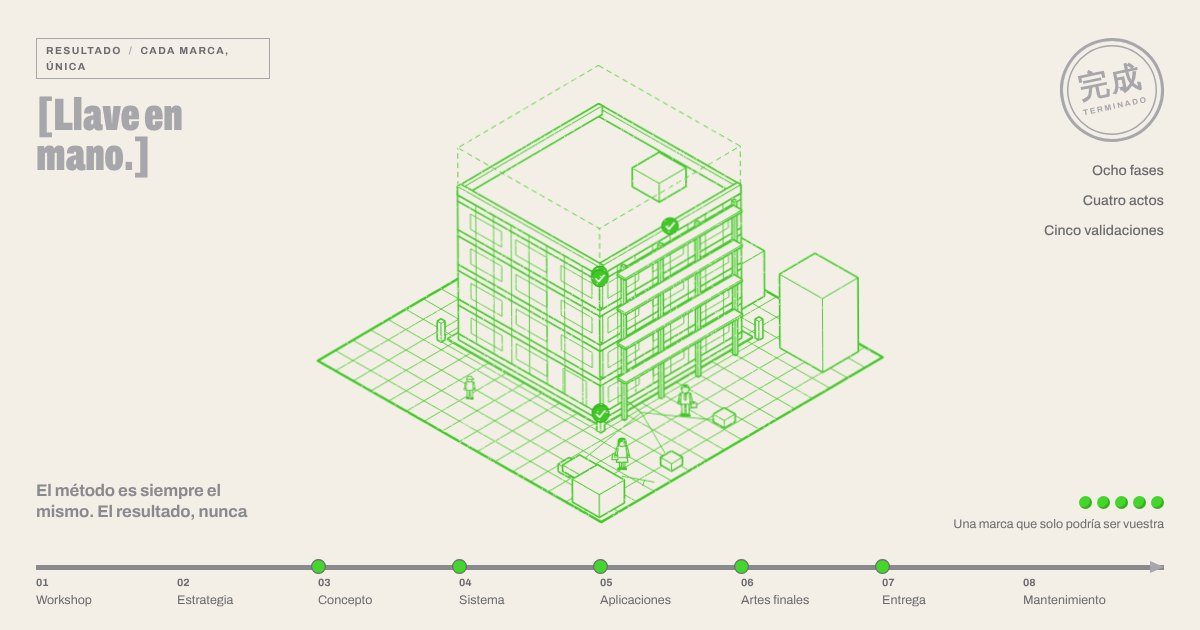
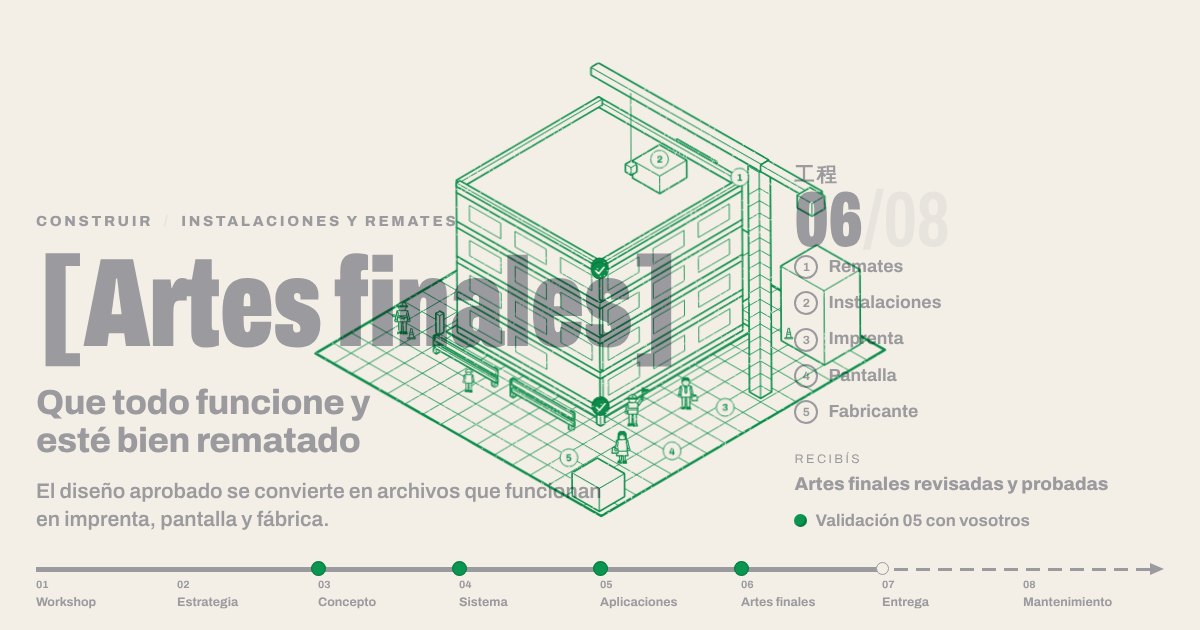
Dos tintas: el texto gris corre bajo la plancha verde y se funden al cruzarse
- La ilustración es una plancha fija encima de la página; los textos de cada
  fase corren por debajo al hacer scroll. Donde se cruzan, las tintas se
  suman (multiplicar), como en una risografía a dos tintas.
- La fase que se construye sale del texto que cruza el centro de la
  pantalla; la línea de fases queda fija abajo sobre papel.
- Verde de la referencia (#0A9651) para ilustración y gomets.
- Todos los textos en un mismo gris claro (#9A9A9F), más grandes y gruesos:
  títulos de fase a 10 vw, titulares y textos de la obra en negrita.
- Sin desbordamiento lateral (overflow-x: clip, que no rompe el sticky).

Claude-Session: https://claude.ai/code/session_01AgaA6ceLrqybE1WbhhE7Jz

diff --git a/assets/css/gve.css b/assets/css/gve.css
@@ -923,6 +923,81 @@ svg [fill="#1B1B1B"] { fill: var(--midori); }
   .cat-fig path, .pl-fig path, .pil-fig path, #fig-fases path, .timeline path, .fachada path { stroke-width: .8px; }
 }
 
+/* ==========================================================================
+   CAPAS — dos tintas, como en risografía. El texto, en un solo gris claro, grande y grueso,
+   corre por debajo al hacer scroll; la plancha verde del dibujo queda fija encima y, donde
+   se cruzan, las tintas se suman (multiplicar): el trazo verde se funde con el gris de la letra.
+   ========================================================================== */
+:root { --midori: #0A9651; --gomet: #0A9651; --gomet-d: #087A42; --g: #9A9A9F; --g1: var(--g); --g2: var(--g); --g3: var(--g); --g0: #E7E4DD; }
+body { font-size: 18px; font-weight: 500; }
+.h2, .pl-h, .op-h, .card-name, .cat-name, .faq summary, .statement, .jp-head, .lbl, .rail-k, .rail-n { color: var(--g); }
+.btn { background: var(--g); border-color: var(--g); color: #fff; box-shadow: none; }
+.btn:hover { background: #87878C; border-color: #87878C; }
+.btn-ghost { background: transparent; color: var(--g); border-color: var(--g); }
+.btn-ghost:hover { background: var(--g0); color: var(--g); }
+
+/* la plancha verde: fija, encima de todo lo que corre por debajo, impresa en multiplicar */
+.obra { height: auto; position: relative; border-bottom: 0; overflow-x: clip; }
+.obra .obra-svg { position: sticky; top: var(--hd); display: block; width: 100%; height: calc(100vh - var(--hd)); height: calc(100svh - var(--hd));
+  margin-bottom: calc(-100vh + var(--hd)); margin-bottom: calc(-100svh + var(--hd)); z-index: 3; overflow: hidden; pointer-events: none;
+  mix-blend-mode: multiply; transform: rotate(-.35deg); will-change: transform; contain: strict;
+  -webkit-mask: url(../img/stamp.png) 0 0 / 128px 128px repeat; mask: url(../img/stamp.png) 0 0 / 128px 128px repeat; }
+.obra .obra-svg { --blank: #FFFFFF; }
+/* los textos corren por debajo, uno por fase */
+.obra .obra-panels { position: relative; z-index: 1; inset: auto; width: auto; padding: 0 var(--gut); pointer-events: auto; }
+.obra .obra-panels::before { content: none; }
+.obra .op { position: relative; inset: auto; display: grid; grid-template-columns: minmax(0, 1.3fr) minmax(0, .7fr); gap: 4vh 6vw; align-content: center; align-items: end;
+  min-height: 92vh; min-height: 92svh; padding: 14vh 0; opacity: 1; visibility: visible; transform: none; transition: none; }
+.obra .op-l, .obra .op-r { width: auto; display: flex; flex-direction: column; justify-content: flex-start; gap: 26px; text-align: left; align-items: flex-start; }
+.obra .op-meta { padding: 0; border: 0; background: none; transform: none; color: var(--g); font-size: .92rem; font-weight: 800; letter-spacing: .18em; margin: 0 0 18px; }
+.obra .op-meta i { color: var(--g0); }
+.obra .op-title, .obra .op-display { color: var(--g); font-weight: 900; font-stretch: 62%; letter-spacing: -.012em; line-height: .86; text-shadow: none; }
+.obra .op-title { font-size: clamp(4rem, 10.5vw, 11rem); }
+.obra .op-display { font-size: clamp(3.4rem, 8.4vw, 8.6rem); max-width: 9em; }
+.obra .op-h { margin: 0 0 .5em; color: var(--g); font-weight: 800; font-size: clamp(1.6rem, 2.9vw, 2.8rem); line-height: 1.08; letter-spacing: -.015em; max-width: 17em; }
+.obra .op-short { color: var(--g); font-weight: 600; font-size: clamp(1.2rem, 1.75vw, 1.65rem); line-height: 1.35; max-width: 28em; }
+.obra .op-count { margin: 0; color: var(--g); font-weight: 900; font-stretch: 62%; font-size: clamp(3.4rem, 6.5vw, 6.6rem); line-height: .85; }
+.obra .op-count small { color: var(--g); font-size: .26em; }
+.obra .op-count span { color: var(--g0); }
+.obra .op-parts, .obra .op-list { justify-items: start; gap: 10px; }
+.obra .op-parts li, .obra .op-list li { color: var(--g); font-size: clamp(1.1rem, 1.4vw, 1.35rem); font-weight: 700; }
+.obra .mk-n { order: 0; width: 24px; height: 24px; font-size: .75rem; border: 2px solid var(--g); color: var(--g); background: transparent; }
+.obra .op-parts li.hi .mk-n { background: var(--g); color: #fff; }
+.obra .op-list span { color: var(--g); font-size: .85rem; }
+.obra .op-get { padding: 0; border: 0; background: none; color: var(--g); font-size: clamp(1.15rem, 1.5vw, 1.45rem); font-weight: 800; line-height: 1.25; }
+.obra .op-get span { display: block; margin: 0 0 6px; padding: 0; background: none; color: var(--g); font-size: .78rem; letter-spacing: .2em; }
+.obra .op-val { justify-content: flex-start; color: var(--g); font-weight: 700; font-size: 1.05rem; }
+.obra .op-vals .op-vals-t { text-align: left; color: var(--g); }
+.obra .op-note { border: 2px solid var(--g); color: var(--g); font-size: 1.05rem; font-weight: 600; }
+.obra .op-note .op-note-h { color: var(--g); border-color: var(--g); }
+.obra .stamp { margin: 0; border-color: var(--g); color: var(--g); box-shadow: inset 0 0 0 4px var(--paper), inset 0 0 0 5.5px var(--g); }
+.obra .banner { background: var(--g); color: #fff; font-size: clamp(1.1rem, 1.6vw, 1.5rem); }
+.obra .bars { background: repeating-linear-gradient(90deg, var(--g) 0 4px, transparent 4px 8px); }
+.obra .op-hint { color: var(--g); font-weight: 700; font-size: .85rem; }
+.obra .op-end .ctas { margin-top: 18px; }
+/* la línea de fases, fija abajo, sobre papel */
+.obra .obra-rail { position: sticky; bottom: 0; z-index: 4; padding: 12px var(--gut) 16px; background: var(--paper); }
+.obra .rail { border-top: 0; background: repeating-linear-gradient(90deg, var(--g) 0 14px, transparent 14px 22px) 0 1px / calc(100% - 14px) 3px no-repeat; position: relative; }
+.obra .rail::after { content: ''; position: absolute; right: 0; top: -4.5px; border-left: 14px solid var(--g); border-top: 6.5px solid transparent; border-bottom: 6.5px solid transparent; }
+.obra .rail-i::before { background: var(--g); height: 5px; top: 0; }
+.obra .rail-v { border-color: var(--g); background: var(--paper); top: -5px; }
+.obra .rail-v.on { background: var(--gomet); border-color: var(--gomet-d); }
+.obra .rail-n, .obra .rail-k { color: var(--g); font-weight: 700; }
+@media (max-width: 900px) {
+  .obra .obra-svg { height: 50vh; height: 50svh; margin-bottom: -50vh; margin-bottom: -50svh; }
+  .obra .op { grid-template-columns: minmax(0, 1fr); gap: 22px; min-height: 86vh; min-height: 86svh; padding: 10vh 0; }
+  .obra .op-r { gap: 14px; }
+  .obra .op-title { font-size: clamp(2.8rem, 13vw, 4.4rem); }
+  .obra .op-display { font-size: clamp(2.8rem, 13vw, 4rem); }
+  .obra .op-h { font-size: 1.45rem; }
+  .obra .op-short { font-size: 1.1rem; }
+  .obra .op-count, .obra .stamp, .obra .op-val, .obra .op-hint { display: none; }
+  .obra .op-parts, .obra .op-list { display: flex; flex-wrap: wrap; gap: 8px 16px; }
+  .obra .op-parts li, .obra .op-list li { font-size: 1rem; }
+  .obra .op-note { display: block; font-size: .95rem; }
+  .obra .obra-rail { padding: 8px var(--gut) 10px; }
+}
+
 @media (prefers-reduced-motion: reduce) {
   html { scroll-behavior: auto; }
   *, *::before, *::after { animation: none !important; transition: none !important; }

diff --git a/index.html b/index.html
@@ -22,7 +22,7 @@
 <link rel="preconnect" href="https://fonts.googleapis.com">
 <link rel="preconnect" href="https://fonts.gstatic.com" crossorigin>
 <link rel="stylesheet" href="https://fonts.googleapis.com/css2?family=Archivo:wdth,wght@62..125,300..900&display=swap">
-<link rel="stylesheet" href="assets/css/gve.css?v=mw7houd9">
+<link rel="stylesheet" href="assets/css/gve.css?v=mw7i3cah">
 <script type="application/ld+json">{"@context":"https://schema.org","@type":"ProfessionalService","@id":"https://gometverdestudi.com/#studio","name":"Gomet Verd Estudi","url":"https://gometverdestudi.com/","email":"gometverdestudi@gmail.com","telephone":"+34 684 450 515","description":"Gomet Verd Estudi es un estudio independiente de branding y dirección de arte en Valencia y Barcelona. Construimos marcas como edificios: de abajo arriba, en ocho fases y con una validación en cada capa.","sameAs":["https://www.instagram.com/gometverdestudi/"],"slogan":"ALWAYS WIPing (Working In Play)","areaServed":[{"@type":"City","name":"Valencia"},{"@type":"City","name":"Barcelona"}],"knowsAbout":["Branding","Identidad corporativa","Dirección de arte","Packaging","Diseño editorial","Lettering","Cartelería"],"member":{"@type":"Person","name":"Manel Vila","url":"https://manelvila.com/"}}</script>
 </head>
 <body class="is-home">
@@ -95,7 +95,6 @@
 <main id="main">
 
 <section class="obra" id="obra" aria-label="Cómo se construye una marca" style="--n:10">
-  <div class="obra-stage">
     <svg class="obra-svg" viewBox="-360 -260 720 580" preserveAspectRatio="xMidYMid meet" role="img" aria-labelledby="obra-t"><title id="obra-t">Un edificio se construye de abajo arriba mientras se recorren las ocho fases del método: terreno, solar, cimientos, pilares, plantas, fachada e instalaciones, entrega de llaves y mantenimiento. Cada validación se marca con un gomet verde.</title><g class="scene"></g><g class="labels"></g></svg>
     <div class="obra-panels">
       <article class="op op-intro on" data-p="0">
@@ -202,7 +201,6 @@
     <div class="obra-rail">
       <ol class="rail"><li class="rail-i" data-k="1"><button type="button" data-go="1" aria-label="Ir a la fase 01: Workshop"><span class="rail-n">01</span><span class="rail-k">Workshop</span></button></li><li class="rail-i" data-k="2"><button type="button" data-go="2" aria-label="Ir a la fase 02: Estrategia"><span class="rail-n">02</span><span class="rail-k">Estrategia</span></button><span class="rail-v" data-v="1" aria-hidden="true"></span></li><li class="rail-i" data-k="3"><button type="button" data-go="3" aria-label="Ir a la fase 03: Concepto"><span class="rail-n">03</span><span class="rail-k">Concepto</span></button><span class="rail-v" data-v="2" aria-hidden="true"></span></li><li class="rail-i" data-k="4"><button type="button" data-go="4" aria-label="Ir a la fase 04: Sistema"><span class="rail-n">04</span><span class="rail-k">Sistema</span></button><span class="rail-v" data-v="3" aria-hidden="true"></span></li><li class="rail-i" data-k="5"><button type="button" data-go="5" aria-label="Ir a la fase 05: Aplicaciones"><span class="rail-n">05</span><span class="rail-k">Aplicaciones</span></button><span class="rail-v" data-v="4" aria-hidden="true"></span></li><li class="rail-i" data-k="6"><button type="button" data-go="6" aria-label="Ir a la fase 06: Artes finales"><span class="rail-n">06</span><span class="rail-k">Artes finales</span></button><span class="rail-v" data-v="5" aria-hidden="true"></span></li><li class="rail-i" data-k="7"><button type="button" data-go="7" aria-label="Ir a la fase 07: Entrega"><span class="rail-n">07</span><span class="rail-k">Entrega</span></button></li><li class="rail-i" data-k="8"><button type="button" data-go="8" aria-label="Ir a la fase 08: Mantenimiento"><span class="rail-n">08</span><span class="rail-k">Mantenimiento</span></button></li></ol>
     </div>
-  </div>
 </section>
 
 
@@ -376,7 +374,7 @@
   <button class="lb-p" type="button" aria-label="Anterior"><svg class="ico" viewBox="0 0 24 24" aria-hidden="true"><path d="M21,12 H4 M10,6 L4,12 L10,18" fill="none" stroke="currentColor" stroke-width="2" stroke-linecap="round" stroke-linejoin="round"/></svg></button>
   <button class="lb-n" type="button" aria-label="Siguiente"><svg class="ico" viewBox="0 0 24 24" aria-hidden="true"><path d="M3,12 H20 M14,6 L20,12 L14,18" fill="none" stroke="currentColor" stroke-width="2" stroke-linecap="round" stroke-linejoin="round"/></svg></button>
 </dialog>
-<script src="assets/js/obra.js?v=mw7houd9" defer></script>
-<script src="assets/js/gve.js?v=mw7houd9" defer></script>
+<script src="assets/js/obra.js?v=mw7i3cah" defer></script>
+<script src="assets/js/gve.js?v=mw7i3cah" defer></script>
 </body>
 </html>

diff --git a/contacto/index.html b/contacto/index.html
@@ -22,7 +22,7 @@
 <link rel="preconnect" href="https://fonts.googleapis.com">
 <link rel="preconnect" href="https://fonts.gstatic.com" crossorigin>
 <link rel="stylesheet" href="https://fonts.googleapis.com/css2?family=Archivo:wdth,wght@62..125,300..900&display=swap">
-<link rel="stylesheet" href="../assets/css/gve.css?v=mw7houd9">
+<link rel="stylesheet" href="../assets/css/gve.css?v=mw7i3cah">
 <script type="application/ld+json">{"@context":"https://schema.org","@type":"ProfessionalService","@id":"https://gometverdestudi.com/#studio","name":"Gomet Verd Estudi","url":"https://gometverdestudi.com/","email":"gometverdestudi@gmail.com","telephone":"+34 684 450 515","description":"Gomet Verd Estudi es un estudio independiente de branding y dirección de arte en Valencia y Barcelona. Construimos marcas como edificios: de abajo arriba, en ocho fases y con una validación en cada capa.","sameAs":["https://www.instagram.com/gometverdestudi/"],"slogan":"ALWAYS WIPing (Working In Play)","areaServed":[{"@type":"City","name":"Valencia"},{"@type":"City","name":"Barcelona"}],"knowsAbout":["Branding","Identidad corporativa","Dirección de arte","Packaging","Diseño editorial","Lettering","Cartelería"],"member":{"@type":"Person","name":"Manel Vila","url":"https://manelvila.com/"}}</script>
 </head>
 <body class="is-contacto">
@@ -216,6 +216,6 @@
   <button class="lb-p" type="button" aria-label="Anterior"><svg class="ico" viewBox="0 0 24 24" aria-hidden="true"><path d="M21,12 H4 M10,6 L4,12 L10,18" fill="none" stroke="currentColor" stroke-width="2" stroke-linecap="round" stroke-linejoin="round"/></svg></button>
   <button class="lb-n" type="button" aria-label="Siguiente"><svg class="ico" viewBox="0 0 24 24" aria-hidden="true"><path d="M3,12 H20 M14,6 L20,12 L14,18" fill="none" stroke="currentColor" stroke-width="2" stroke-linecap="round" stroke-linejoin="round"/></svg></button>
 </dialog>
-<script src="../assets/js/gve.js?v=mw7houd9" defer></script>
+<script src="../assets/js/gve.js?v=mw7i3cah" defer></script>
 </body>
 </html>

diff --git a/estudio/index.html b/estudio/index.html
@@ -22,7 +22,7 @@
 <link rel="preconnect" href="https://fonts.googleapis.com">
 <link rel="preconnect" href="https://fonts.gstatic.com" crossorigin>
 <link rel="stylesheet" href="https://fonts.googleapis.com/css2?family=Archivo:wdth,wght@62..125,300..900&display=swap">
-<link rel="stylesheet" href="../assets/css/gve.css?v=mw7houd9">
+<link rel="stylesheet" href="../assets/css/gve.css?v=mw7i3cah">
 <script type="application/ld+json">{"@context":"https://schema.org","@type":"ProfessionalService","@id":"https://gometverdestudi.com/#studio","name":"Gomet Verd Estudi","url":"https://gometverdestudi.com/","email":"gometverdestudi@gmail.com","telephone":"+34 684 450 515","description":"Gomet Verd Estudi es un estudio independiente de branding y dirección de arte en Valencia y Barcelona. Construimos marcas como edificios: de abajo arriba, en ocho fases y con una validación en cada capa.","sameAs":["https://www.instagram.com/gometverdestudi/"],"slogan":"ALWAYS WIPing (Working In Play)","areaServed":[{"@type":"City","name":"Valencia"},{"@type":"City","name":"Barcelona"}],"knowsAbout":["Branding","Identidad corporativa","Dirección de arte","Packaging","Diseño editorial","Lettering","Cartelería"],"member":{"@type":"Person","name":"Manel Vila","url":"https://manelvila.com/"}}</script>
 </head>
 <body class="is-estudio">
@@ -278,6 +278,6 @@
   <button class="lb-p" type="button" aria-label="Anterior"><svg class="ico" viewBox="0 0 24 24" aria-hidden="true"><path d="M21,12 H4 M10,6 L4,12 L10,18" fill="none" stroke="currentColor" stroke-width="2" stroke-linecap="round" stroke-linejoin="round"/></svg></button>
   <button class="lb-n" type="button" aria-label="Siguiente"><svg class="ico" viewBox="0 0 24 24" aria-hidden="true"><path d="M3,12 H20 M14,6 L20,12 L14,18" fill="none" stroke="currentColor" stroke-width="2" stroke-linecap="round" stroke-linejoin="round"/></svg></button>
 </dialog>
-<script src="../assets/js/gve.js?v=mw7houd9" defer></script>
+<script src="../assets/js/gve.js?v=mw7i3cah" defer></script>
 </body>
 </html>

diff --git a/metodo/index.html b/metodo/index.html
@@ -22,7 +22,7 @@
 <link rel="preconnect" href="https://fonts.googleapis.com">
 <link rel="preconnect" href="https://fonts.gstatic.com" crossorigin>
 <link rel="stylesheet" href="https://fonts.googleapis.com/css2?family=Archivo:wdth,wght@62..125,300..900&display=swap">
-<link rel="stylesheet" href="../assets/css/gve.css?v=mw7houd9">
+<link rel="stylesheet" href="../assets/css/gve.css?v=mw7i3cah">
 <script type="application/ld+json">{"@context":"https://schema.org","@type":"ProfessionalService","@id":"https://gometverdestudi.com/#studio","name":"Gomet Verd Estudi","url":"https://gometverdestudi.com/","email":"gometverdestudi@gmail.com","telephone":"+34 684 450 515","description":"Gomet Verd Estudi es un estudio independiente de branding y dirección de arte en Valencia y Barcelona. Construimos marcas como edificios: de abajo arriba, en ocho fases y con una validación en cada capa.","sameAs":["https://www.instagram.com/gometverdestudi/"],"slogan":"ALWAYS WIPing (Working In Play)","areaServed":[{"@type":"City","name":"Valencia"},{"@type":"City","name":"Barcelona"}],"knowsAbout":["Branding","Identidad corporativa","Dirección de arte","Packaging","Diseño editorial","Lettering","Cartelería"],"member":{"@type":"Person","name":"Manel Vila","url":"https://manelvila.com/"}}</script>
 </head>
 <body class="is-metodo">
@@ -399,6 +399,6 @@
   <button class="lb-p" type="button" aria-label="Anterior"><svg class="ico" viewBox="0 0 24 24" aria-hidden="true"><path d="M21,12 H4 M10,6 L4,12 L10,18" fill="none" stroke="currentColor" stroke-width="2" stroke-linecap="round" stroke-linejoin="round"/></svg></button>
   <button class="lb-n" type="button" aria-label="Siguiente"><svg class="ico" viewBox="0 0 24 24" aria-hidden="true"><path d="M3,12 H20 M14,6 L20,12 L14,18" fill="none" stroke="currentColor" stroke-width="2" stroke-linecap="round" stroke-linejoin="round"/></svg></button>
 </dialog>
-<script src="../assets/js/gve.js?v=mw7houd9" defer></script>
+<script src="../assets/js/gve.js?v=mw7i3cah" defer></script>
 </body>
 </html>

diff --git a/obras/index.html b/obras/index.html
@@ -22,7 +22,7 @@
 <link rel="preconnect" href="https://fonts.googleapis.com">
 <link rel="preconnect" href="https://fonts.gstatic.com" crossorigin>
 <link rel="stylesheet" href="https://fonts.googleapis.com/css2?family=Archivo:wdth,wght@62..125,300..900&display=swap">
-<link rel="stylesheet" href="../assets/css/gve.css?v=mw7houd9">
+<link rel="stylesheet" href="../assets/css/gve.css?v=mw7i3cah">
 <script type="application/ld+json">{"@context":"https://schema.org","@type":"ProfessionalService","@id":"https://gometverdestudi.com/#studio","name":"Gomet Verd Estudi","url":"https://gometverdestudi.com/","email":"gometverdestudi@gmail.com","telephone":"+34 684 450 515","description":"Gomet Verd Estudi es un estudio independiente de branding y dirección de arte en Valencia y Barcelona. Construimos marcas como edificios: de abajo arriba, en ocho fases y con una validación en cada capa.","sameAs":["https://www.instagram.com/gometverdestudi/"],"slogan":"ALWAYS WIPing (Working In Play)","areaServed":[{"@type":"City","name":"Valencia"},{"@type":"City","name":"Barcelona"}],"knowsAbout":["Branding","Identidad corporativa","Dirección de arte","Packaging","Diseño editorial","Lettering","Cartelería"],"member":{"@type":"Person","name":"Manel Vila","url":"https://manelvila.com/"}}</script>
 </head>
 <body class="is-obras">
@@ -249,6 +249,6 @@
   <button class="lb-p" type="button" aria-label="Anterior"><svg class="ico" viewBox="0 0 24 24" aria-hidden="true"><path d="M21,12 H4 M10,6 L4,12 L10,18" fill="none" stroke="currentColor" stroke-width="2" stroke-linecap="round" stroke-linejoin="round"/></svg></button>
   <button class="lb-n" type="button" aria-label="Siguiente"><svg class="ico" viewBox="0 0 24 24" aria-hidden="true"><path d="M3,12 H20 M14,6 L20,12 L14,18" fill="none" stroke="currentColor" stroke-width="2" stroke-linecap="round" stroke-linejoin="round"/></svg></button>
 </dialog>
-<script src="../assets/js/gve.js?v=mw7houd9" defer></script>
+<script src="../assets/js/gve.js?v=mw7i3cah" defer></script>
 </body>
 </html>

diff --git a/404.html b/404.html
@@ -22,7 +22,7 @@
 <link rel="preconnect" href="https://fonts.googleapis.com">
 <link rel="preconnect" href="https://fonts.gstatic.com" crossorigin>
 <link rel="stylesheet" href="https://fonts.googleapis.com/css2?family=Archivo:wdth,wght@62..125,300..900&display=swap">
-<link rel="stylesheet" href="/assets/css/gve.css?v=mw7houd9">
+<link rel="stylesheet" href="/assets/css/gve.css?v=mw7i3cah">
 <script type="application/ld+json">{"@context":"https://schema.org","@type":"ProfessionalService","@id":"https://gometverdestudi.com/#studio","name":"Gomet Verd Estudi","url":"https://gometverdestudi.com/","email":"gometverdestudi@gmail.com","telephone":"+34 684 450 515","description":"Gomet Verd Estudi es un estudio independiente de branding y dirección de arte en Valencia y Barcelona. Construimos marcas como edificios: de abajo arriba, en ocho fases y con una validación en cada capa.","sameAs":["https://www.instagram.com/gometverdestudi/"],"slogan":"ALWAYS WIPing (Working In Play)","areaServed":[{"@type":"City","name":"Valencia"},{"@type":"City","name":"Barcelona"}],"knowsAbout":["Branding","Identidad corporativa","Dirección de arte","Packaging","Diseño editorial","Lettering","Cartelería"],"member":{"@type":"Person","name":"Manel Vila","url":"https://manelvila.com/"}}</script>
 </head>
 <body class="is-404">
@@ -187,6 +187,6 @@
   <button class="lb-p" type="button" aria-label="Anterior"><svg class="ico" viewBox="0 0 24 24" aria-hidden="true"><path d="M21,12 H4 M10,6 L4,12 L10,18" fill="none" stroke="currentColor" stroke-width="2" stroke-linecap="round" stroke-linejoin="round"/></svg></button>
   <button class="lb-n" type="button" aria-label="Siguiente"><svg class="ico" viewBox="0 0 24 24" aria-hidden="true"><path d="M3,12 H20 M14,6 L20,12 L14,18" fill="none" stroke="currentColor" stroke-width="2" stroke-linecap="round" stroke-linejoin="round"/></svg></button>
 </dialog>
-<script src="/assets/js/gve.js?v=mw7houd9" defer></script>
+<script src="/assets/js/gve.js?v=mw7i3cah" defer></script>
 </body>
 </html>

diff --git a/obras/bernal-vida-y-milagros/index.html b/obras/bernal-vida-y-milagros/index.html
@@ -22,7 +22,7 @@
 <link rel="preconnect" href="https://fonts.googleapis.com">
 <link rel="preconnect" href="https://fonts.gstatic.com" crossorigin>
 <link rel="stylesheet" href="https://fonts.googleapis.com/css2?family=Archivo:wdth,wght@62..125,300..900&display=swap">
-<link rel="stylesheet" href="../../assets/css/gve.css?v=mw7houd9">
+<link rel="stylesheet" href="../../assets/css/gve.css?v=mw7i3cah">
 <script type="application/ld+json">{"@context":"https://schema.org","@type":"CreativeWork","name":"Bernal / Vida y Milagros","description":"Para Vida y Milagros, el segundo álbum de Bernal, desarrollamos un universo gráfico inspirado en el movimiento, los paisajes y esa nostalgia que aparece mientras la vida sigue avanzando. A través de la conceptualización gráfica, el branding, el diseño del vinilo, la creación de stickers y los títulos y créditos, construimos una identidad visual que acompaña el viaje del disco y conecta todas sus piezas desde una misma mirada.","genre":"Branding + Editorial","url":"https://gometverdestudi.com/obras/bernal-vida-y-milagros/","image":"https://gometverdestudi.com/media/bernal-vida-y-milagros/poster.avif","creator":{"@type":"Organization","@id":"https://gometverdestudi.com/#studio","name":"Gomet Verd Estudi"}}</script>
 </head>
 <body class="is-obra">
@@ -214,6 +214,6 @@
   <button class="lb-p" type="button" aria-label="Anterior"><svg class="ico" viewBox="0 0 24 24" aria-hidden="true"><path d="M21,12 H4 M10,6 L4,12 L10,18" fill="none" stroke="currentColor" stroke-width="2" stroke-linecap="round" stroke-linejoin="round"/></svg></button>
   <button class="lb-n" type="button" aria-label="Siguiente"><svg class="ico" viewBox="0 0 24 24" aria-hidden="true"><path d="M3,12 H20 M14,6 L20,12 L14,18" fill="none" stroke="currentColor" stroke-width="2" stroke-linecap="round" stroke-linejoin="round"/></svg></button>
 </dialog>
-<script src="../../assets/js/gve.js?v=mw7houd9" defer></script>
+<script src="../../assets/js/gve.js?v=mw7i3cah" defer></script>
 </body>
 </html>

diff --git a/obras/leo-rizzi/index.html b/obras/leo-rizzi/index.html
@@ -22,7 +22,7 @@
 <link rel="preconnect" href="https://fonts.googleapis.com">
 <link rel="preconnect" href="https://fonts.gstatic.com" crossorigin>
 <link rel="stylesheet" href="https://fonts.googleapis.com/css2?family=Archivo:wdth,wght@62..125,300..900&display=swap">
-<link rel="stylesheet" href="../../assets/css/gve.css?v=mw7houd9">
+<link rel="stylesheet" href="../../assets/css/gve.css?v=mw7i3cah">
 <script type="application/ld+json">{"@context":"https://schema.org","@type":"CreativeWork","name":"Leo Rizzi · Gira 2022","description":"El cantante Leo Rizzi nos pidió el cartel de su gira, “Bailando alrededor del río”, y su adaptación a los formatos de Instagram. Partiendo de su estilo musical y del título de la gira, planteamos como concepto las plantas que crecen alrededor del río y cómo bailan cuando las mece el viento.","genre":"Lettering + Cartelería","url":"https://gometverdestudi.com/obras/leo-rizzi/","image":"https://gometverdestudi.com/media/leo-rizzi/poster.avif","creator":{"@type":"Organization","@id":"https://gometverdestudi.com/#studio","name":"Gomet Verd Estudi"}}</script>
 </head>
 <body class="is-obra">
@@ -214,6 +214,6 @@
   <button class="lb-p" type="button" aria-label="Anterior"><svg class="ico" viewBox="0 0 24 24" aria-hidden="true"><path d="M21,12 H4 M10,6 L4,12 L10,18" fill="none" stroke="currentColor" stroke-width="2" stroke-linecap="round" stroke-linejoin="round"/></svg></button>
   <button class="lb-n" type="button" aria-label="Siguiente"><svg class="ico" viewBox="0 0 24 24" aria-hidden="true"><path d="M3,12 H20 M14,6 L20,12 L14,18" fill="none" stroke="currentColor" stroke-width="2" stroke-linecap="round" stroke-linejoin="round"/></svg></button>
 </dialog>
-<script src="../../assets/js/gve.js?v=mw7houd9" defer></script>
+<script src="../../assets/js/gve.js?v=mw7i3cah" defer></script>
 </body>
 </html>

diff --git a/obras/bernal/index.html b/obras/bernal/index.html
@@ -22,7 +22,7 @@
 <link rel="preconnect" href="https://fonts.googleapis.com">
 <link rel="preconnect" href="https://fonts.gstatic.com" crossorigin>
 <link rel="stylesheet" href="https://fonts.googleapis.com/css2?family=Archivo:wdth,wght@62..125,300..900&display=swap">
-<link rel="stylesheet" href="../../assets/css/gve.css?v=mw7houd9">
+<link rel="stylesheet" href="../../assets/css/gve.css?v=mw7i3cah">
 <script type="application/ld+json">{"@context":"https://schema.org","@type":"CreativeWork","name":"Bernal / ¿Qué tal todo allí fuera?","description":"Diseño del título y los créditos del videoclip “Parques”, del grupo Bernal, que explora la nostalgia de la infancia. En la misma línea gráfica desarrollamos la funda de su vinilo “¿Qué tal todo allí fuera?”, una edición especial de cincuenta copias hechas a mano.","genre":"Lettering + Editorial","url":"https://gometverdestudi.com/obras/bernal/","image":"https://gometverdestudi.com/media/bernal/poster.avif","creator":{"@type":"Organization","@id":"https://gometverdestudi.com/#studio","name":"Gomet Verd Estudi"}}</script>
 </head>
 <body class="is-obra">
@@ -214,6 +214,6 @@
   <button class="lb-p" type="button" aria-label="Anterior"><svg class="ico" viewBox="0 0 24 24" aria-hidden="true"><path d="M21,12 H4 M10,6 L4,12 L10,18" fill="none" stroke="currentColor" stroke-width="2" stroke-linecap="round" stroke-linejoin="round"/></svg></button>
   <button class="lb-n" type="button" aria-label="Siguiente"><svg class="ico" viewBox="0 0 24 24" aria-hidden="true"><path d="M3,12 H20 M14,6 L20,12 L14,18" fill="none" stroke="currentColor" stroke-width="2" stroke-linecap="round" stroke-linejoin="round"/></svg></button>
 </dialog>
-<script src="../../assets/js/gve.js?v=mw7houd9" defer></script>
+<script src="../../assets/js/gve.js?v=mw7i3cah" defer></script>
 </body>
 </html>

diff --git a/obras/dmatinada/index.html b/obras/dmatinada/index.html
@@ -22,7 +22,7 @@
 <link rel="preconnect" href="https://fonts.googleapis.com">
 <link rel="preconnect" href="https://fonts.gstatic.com" crossorigin>
 <link rel="stylesheet" href="https://fonts.googleapis.com/css2?family=Archivo:wdth,wght@62..125,300..900&display=swap">
-<link rel="stylesheet" href="../../assets/css/gve.css?v=mw7houd9">
+<link rel="stylesheet" href="../../assets/css/gve.css?v=mw7i3cah">
 <script type="application/ld+json">{"@context":"https://schema.org","@type":"CreativeWork","name":"D’Matinada","description":"El estudio creativo D’Matinada nos pidió que creáramos su identidad, plasmando en ella el alma que ponen en cada proyecto y la dualidad que se genera al trabajar en un proyecto creativo: lo artesanal y cálido del proceso, sumado a la técnica y la seriedad necesarias para lograr un gran resultado.","genre":"Branding","url":"https://gometverdestudi.com/obras/dmatinada/","image":"https://gometverdestudi.com/media/dmatinada/poster.avif","creator":{"@type":"Organization","@id":"https://gometverdestudi.com/#studio","name":"Gomet Verd Estudi"}}</script>
 </head>
 <body class="is-obra">
@@ -214,6 +214,6 @@
   <button class="lb-p" type="button" aria-label="Anterior"><svg class="ico" viewBox="0 0 24 24" aria-hidden="true"><path d="M21,12 H4 M10,6 L4,12 L10,18" fill="none" stroke="currentColor" stroke-width="2" stroke-linecap="round" stroke-linejoin="round"/></svg></button>
   <button class="lb-n" type="button" aria-label="Siguiente"><svg class="ico" viewBox="0 0 24 24" aria-hidden="true"><path d="M3,12 H20 M14,6 L20,12 L14,18" fill="none" stroke="currentColor" stroke-width="2" stroke-linecap="round" stroke-linejoin="round"/></svg></button>
 </dialog>
-<script src="../../assets/js/gve.js?v=mw7houd9" defer></script>
+<script src="../../assets/js/gve.js?v=mw7i3cah" defer></script>
 </body>
 </html>

diff --git a/obras/vintage-palace/index.html b/obras/vintage-palace/index.html
@@ -22,7 +22,7 @@
 <link rel="preconnect" href="https://fonts.googleapis.com">
 <link rel="preconnect" href="https://fonts.gstatic.com" crossorigin>
 <link rel="stylesheet" href="https://fonts.googleapis.com/css2?family=Archivo:wdth,wght@62..125,300..900&display=swap">
-<link rel="stylesheet" href="../../assets/css/gve.css?v=mw7houd9">
+<link rel="stylesheet" href="../../assets/css/gve.css?v=mw7i3cah">
 <script type="application/ld+json">{"@context":"https://schema.org","@type":"CreativeWork","name":"Vintage Palace","description":"Creamos la identidad de Vintage Palace capturando la esencia urbana y potente de los años 80, 90 y 2000, incorporando elementos exclusivos y llamativos a partir del concepto “Palace” y manteniendo sus raíces como base para el diseño.","genre":"Branding","url":"https://gometverdestudi.com/obras/vintage-palace/","image":"https://gometverdestudi.com/media/vintage-palace/poster.avif","creator":{"@type":"Organization","@id":"https://gometverdestudi.com/#studio","name":"Gomet Verd Estudi"}}</script>
 </head>
 <body class="is-obra">
@@ -214,6 +214,6 @@
   <button class="lb-p" type="button" aria-label="Anterior"><svg class="ico" viewBox="0 0 24 24" aria-hidden="true"><path d="M21,12 H4 M10,6 L4,12 L10,18" fill="none" stroke="currentColor" stroke-width="2" stroke-linecap="round" stroke-linejoin="round"/></svg></button>
   <button class="lb-n" type="button" aria-label="Siguiente"><svg class="ico" viewBox="0 0 24 24" aria-hidden="true"><path d="M3,12 H20 M14,6 L20,12 L14,18" fill="none" stroke="currentColor" stroke-width="2" stroke-linecap="round" stroke-linejoin="round"/></svg></button>
 </dialog>
-<script src="../../assets/js/gve.js?v=mw7houd9" defer></script>
+<script src="../../assets/js/gve.js?v=mw7i3cah" defer></script>
 </body>
 </html>
